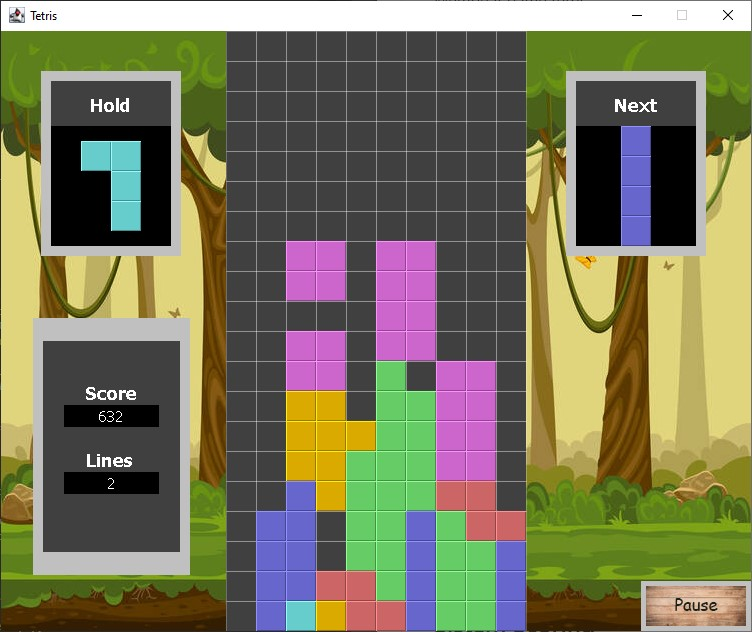
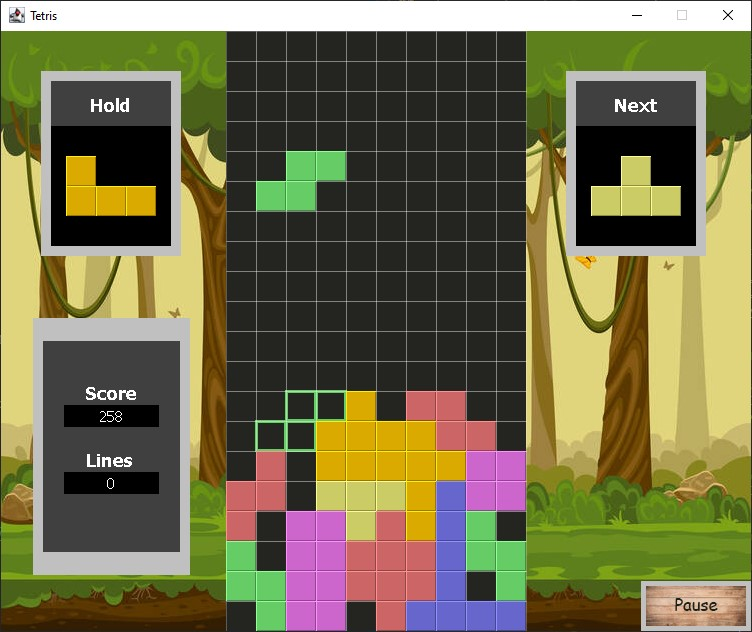
Add ghost piece feature, update reamde, and update preview image.

diff --git a/Java Swing/src/com/application/Swing/Ghost.java b/Java Swing/src/com/application/Swing/Ghost.java
@@ -1,0 +1,89 @@
+package com.application.Swing;
+
+import java.awt.BasicStroke;
+import java.awt.Color;
+import java.awt.Graphics;
+import java.awt.Graphics2D;
+import java.awt.Stroke;
+
+import com.application.Swing.Shape.Tetrominoes;
+
+public class Ghost {
+	private final int squareWidth;
+	private final int squareHeight;
+	private final int BOARD_WIDTH;
+	private final int BOARD_HEIGHT;
+	private final int boardLeft;
+	private final int boardTop;
+	private Tetrominoes[] board;
+	private int x;
+	private int y;
+	private Shape piece;
+	
+	public Ghost(int squareWidth, int squareHeight, int BOARD_WIDTH, int BOARD_HEIGHT, int boardLeft, int boardTop) {
+		this.squareWidth = squareWidth;
+		this.squareHeight = squareHeight;
+		this.BOARD_WIDTH = BOARD_WIDTH;
+		this.BOARD_HEIGHT = BOARD_HEIGHT;
+		this.boardLeft = boardLeft;
+		this.boardTop = boardTop;
+	}
+	
+	public void make(Graphics g, Tetrominoes[] board, Shape piece, int curX, int curY) {
+		this.board = board;
+		this.piece = piece;
+		this.x = curX;
+		this.y = curY;
+		moddropDown();
+		
+		for (int i = 0; i < 4; ++i) {
+			int _x = this.x + this.piece.getX(i);
+			int _y = this.y - this.piece.getY(i);
+			drawShadow(g, boardLeft + _x * squareWidth, boardTop + (BOARD_HEIGHT - _y - 1) * squareHeight);
+		}
+	}
+	
+	private void drawShadow(Graphics g, int x, int y) {
+		Color color = this.piece.getShape().color;
+		Graphics2D g2 = (Graphics2D) g;
+		Stroke oldStroke = g2.getStroke();
+		g2.setStroke(new BasicStroke(3));
+		g2.setColor(color);
+		g2.drawLine(x, y + squareHeight - 1, x, y);
+		g2.drawLine(x, y, x + squareWidth - 1, y);
+		g2.drawLine(x + 1, y + squareHeight - 1, x + squareWidth - 1, y + squareHeight - 1);
+		g2.drawLine(x + squareWidth - 1, y + squareHeight - 1, x + squareWidth - 1, y + 1);
+		g2.setStroke(oldStroke);
+	}
+	
+	private void moddropDown() {
+		int newY = this.y;
+		while (newY > 0) {
+			if (!modtryMove(x, newY - 1))
+				break;
+
+			--newY;
+		}
+	}
+	
+	private boolean modtryMove(int newX, int newY) {
+		for (int i = 0; i < 4; ++i) {
+			int _x = newX + this.piece.getX(i);
+			int _y = newY - this.piece.getY(i);
+
+			if (_y < 0 || _y >= BOARD_HEIGHT) {
+				return false;
+			}
+
+			if (shapeAt(_x, _y) != Tetrominoes.NoShape)
+				return false;
+		}
+		this.x = newX;
+		this.y = newY;
+		return true;
+	}
+	
+	private Tetrominoes shapeAt(int _x, int _y) {
+		return board[_y * BOARD_WIDTH + _x];
+	}
+}

diff --git a/Java Swing/src/com/application/Swing/Board.java b/Java Swing/src/com/application/Swing/Board.java
@@ -41,7 +41,9 @@ public class Board extends JPanel implements ActionListener {
 	private final PauseMenu pauseDialog;
 	private PieceBox nextPieceBox = null;
 	private PieceBox holdPieceBox = null;
+	private Ghost ghost = null;
 	private boolean isHold; // flag for checking if a block have been hold in this turn
+	private boolean enableGhost;
 	private int score;
 	private int totalLines;
 	private ImageIcon iconPause = null;
@@ -81,6 +83,7 @@ public class Board extends JPanel implements ActionListener {
 		isStarted = true;
 		isFallingFinished = false;
 		isHold = false;
+		enableGhost = false;
 		score = 0;
 		totalLines = 0;
 		clearBoard();
@@ -215,11 +218,19 @@ public class Board extends JPanel implements ActionListener {
 			System.out.println(e);
 		}
 		Dimension size = getSize();
-		g.setColor(Color.BLACK);
+		g.setColor(new Color(36, 37, 32));
 		int boardTop = (int) size.getHeight() - BOARD_HEIGHT * squareHeight();
 		int boardLeft = (Main.WIDTH - BOARD_WIDTH * squareWidth()) / 2;
 		g.fillRect(boardLeft, boardTop, squareWidth() * BOARD_WIDTH, (int) size.getHeight());
 
+		// ghost
+		if (ghost == null) ghost = new Ghost(squareWidth(), squareHeight(), 
+										BOARD_WIDTH, BOARD_HEIGHT, boardLeft, boardTop);
+		if (enableGhost && currPiece.getShape() != Tetrominoes.NoShape)  {
+			ghost.make(g, board, currPiece, curX, curY);
+		}
+		
+		// pieces
 		for (int i = 0; i < BOARD_HEIGHT; i++) {
 			for (int j = 0; j < BOARD_WIDTH; ++j) {
 
@@ -303,10 +314,10 @@ public class Board extends JPanel implements ActionListener {
 
 		removeFullLines();
 
+		isHold = false;
 		if (!isFallingFinished) {
 			newPiece();
 		}
-		isHold = false;
 	}
 
 	private void removeFullLines() {
@@ -413,6 +424,11 @@ public class Board extends JPanel implements ActionListener {
 			case 'C':
 				if (!isHold) Main.sfx.hold.playbackAudio(false);
 				hold();
+				break;
+			case 'g':
+			case 'G':
+				Main.sfx.ok.playbackAudio(false);
+				enableGhost = !enableGhost;
 				break;
 			}
 		}

diff --git a/README.md b/README.md
@@ -20,7 +20,8 @@ Membuat game tetris.
 * Huruf "Z" = putar ke kiri.  
 * Spasi = hard drop.  
 * Bawah = soft drop.  
-* Huruf "C" = hold.  
+* Huruf "C" = hold. 
+* Huruf "G" = nyalakan/matikan balok hantu.  
 
 ## Sistem Scoring
 * n baris yang full secara konsekutif memberikan score sebanyak (100)n^2.  
